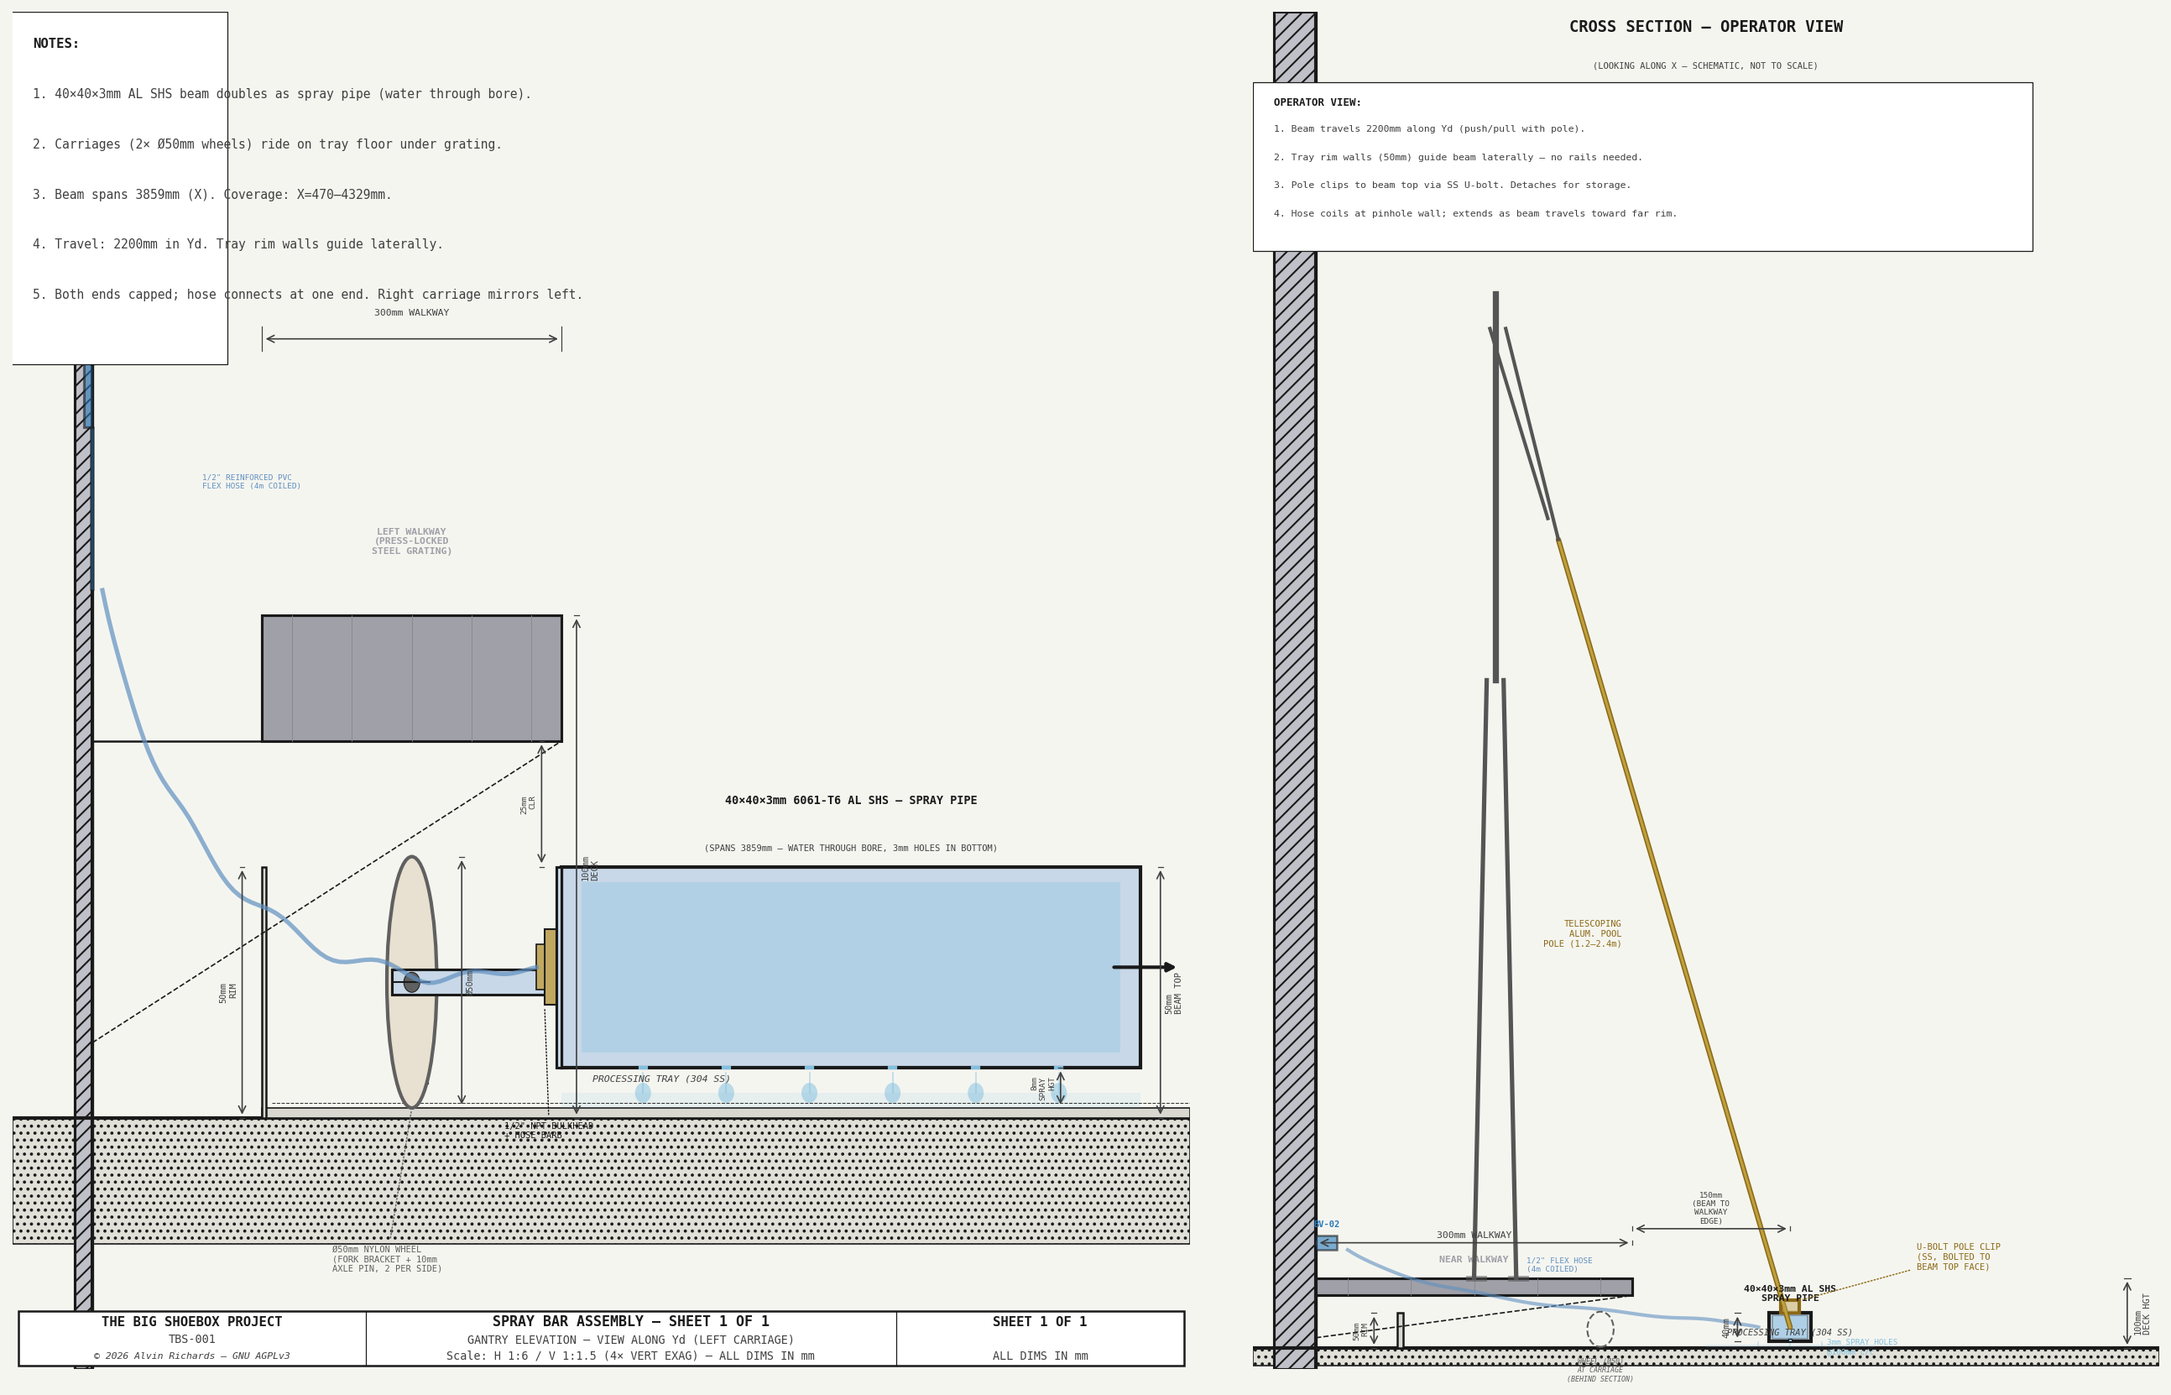
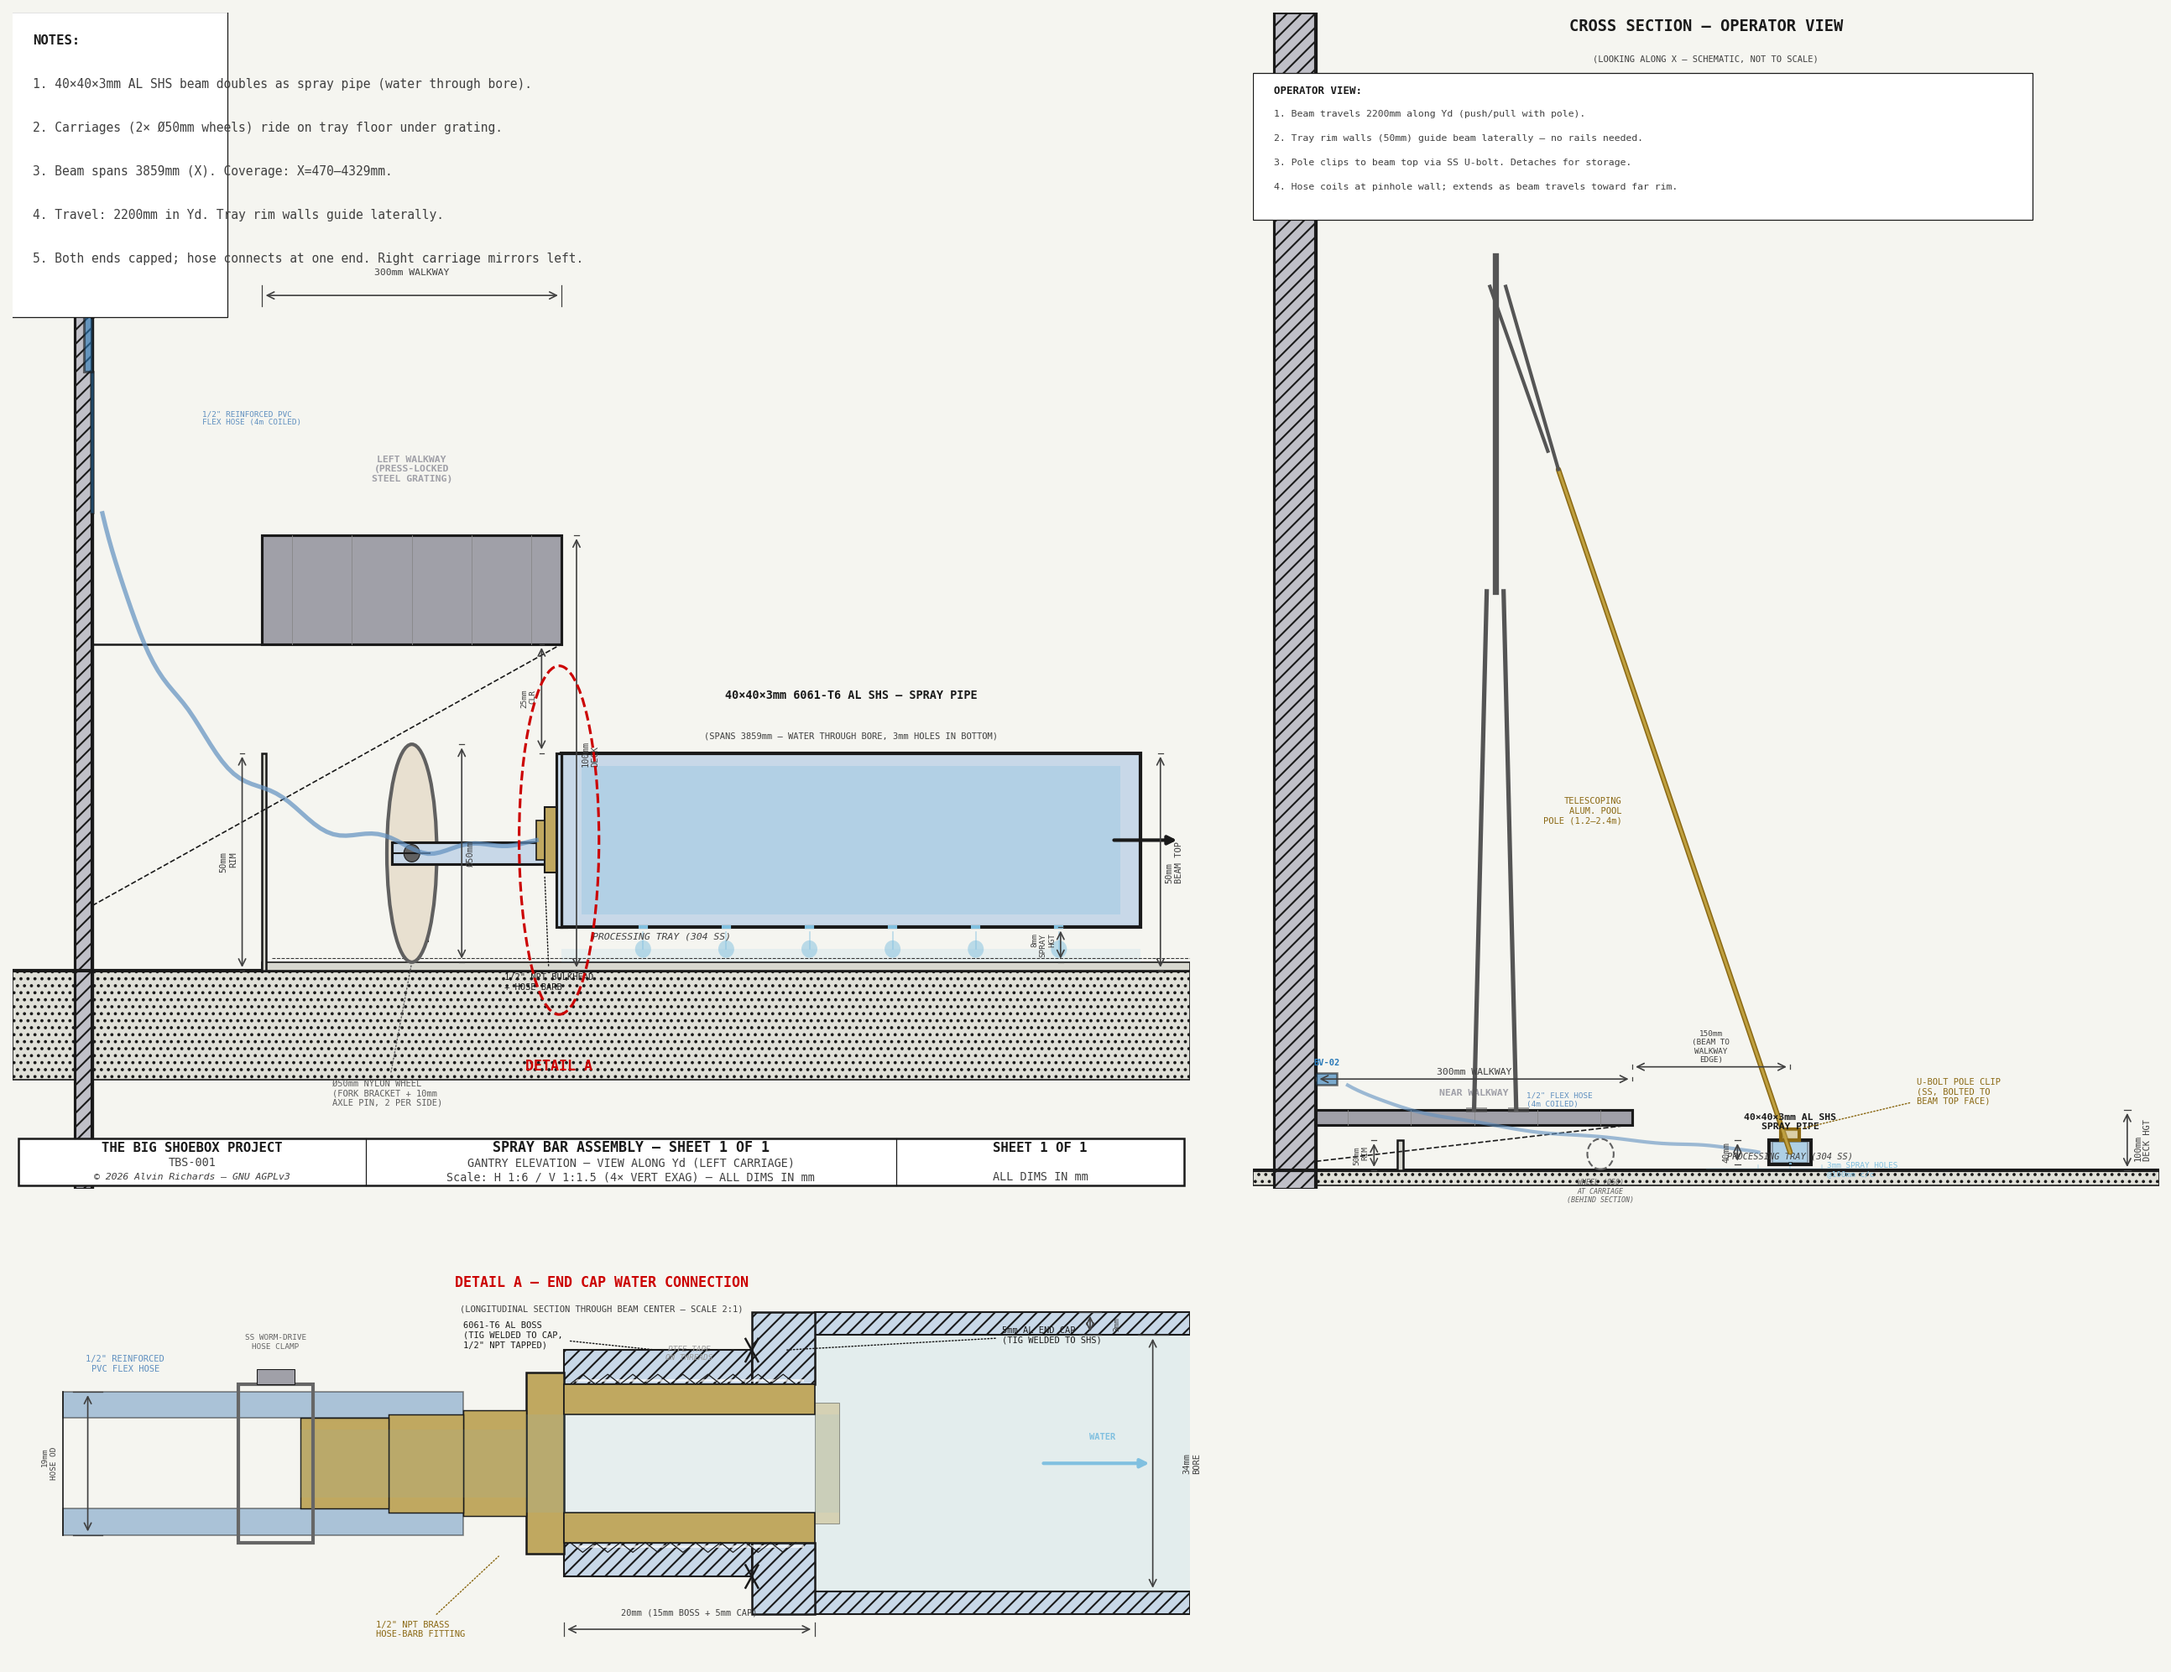
Spray bar diagram: add Detail A — end cap water connection
New bottom-left panel shows longitudinal section (2:1) through
beam center at the end cap.  Assembly: 1/2" NPT brass hose-barb
fitting threaded into a TIG-welded 6061-T6 boss on the 5mm end
cap.  Shows NPT thread engagement, PTFE tape, hex shoulder,
stepped barb, flex hose with SS worm-drive clamp, and water
flow path through the fitting bore into the SHS spray pipe.

Layout changed from 1×2 to 2×2 GridSpec (figure height 14→17").
Red dashed detail callout circle added to main elevation view.

diff --git a/generate_spray_bar_diagram.py b/generate_spray_bar_diagram.py
@@ -87,9 +87,10 @@ WALL_T = 3
 # SHEET 1
 # ═════════════════════════════════════════════════════════════════════════════
 
-fig = plt.figure(figsize=(22, 14))
+fig = plt.figure(figsize=(22, 17))
 fig.patch.set_facecolor(C_BG)
-gs = GridSpec(1, 2, figure=fig, width_ratios=[1.3, 1], wspace=0.06)
+gs = GridSpec(2, 2, figure=fig, width_ratios=[1.3, 1], height_ratios=[3, 1],
+              wspace=0.06, hspace=0.10)
 
 # ─────────────────────────────────────────────────────────────────────────────
 # LEFT PANEL — X-Z elevation looking along Yd, left carriage area
@@ -386,6 +387,179 @@ title_block(ax, "SHEET 1 OF 1",
             subtitle="GANTRY ELEVATION — VIEW ALONG Yd (LEFT CARRIAGE)",
             scale_note="H 1:6 / V 1:1.5 (4× VERT EXAG) — ALL DIMS IN mm",
             height=0.04)
+
+# ── Detail callout circle on main view ────────────────────────────────────
+cap_cx = beam_x_start - cap_t / 2
+cap_cz = BEAM_Z_BOT + BEAM_W / 2
+ax.add_patch(mpatches.Ellipse((sx(cap_cx), sz(cap_cz)),
+                               80 / H_SC, 80 / V_SC,
+                               fc="none", ec="#CC0000", lw=1.5, ls="--", zorder=20))
+ax.text(sx(cap_cx), sz(cap_cz - 50),
+        "DETAIL A", ha="center", va="top", fontsize=8, color="#CC0000",
+        fontweight="bold", **FONT, zorder=20)
+
+
+# ─────────────────────────────────────────────────────────────────────────────
+# BOTTOM-LEFT PANEL — Detail A: End cap water connection
+# Longitudinal section through beam center at end cap, scale 2:1.
+# X: along beam axis, - = outside (hose side), + = inside (bore/water)
+# Y: perpendicular to beam axis, 0 = beam centerline
+#
+# Assembly (outside → inside):
+#   flex hose → clamp → barb → hex → boss (NPT tapped) → end cap → SHS bore
+# Boss provides 15mm thread engagement for 1/2" NPT (cap alone is too thin).
+# ─────────────────────────────────────────────────────────────────────────────
+ax_d = fig.add_subplot(gs[1, 0])
+ax_d.set_facecolor(C_BG)
+ax_d.axis("off")
+
+d_xl, d_xr = -44, 50
+d_yb, d_yt = -26, 26
+ax_d.set_xlim(d_xl, d_xr)
+ax_d.set_ylim(d_yb, d_yt)
+
+ax_d.text((d_xl + d_xr) / 2, d_yt - 1,
+          "DETAIL A — END CAP WATER CONNECTION",
+          ha="center", va="top", fontsize=8, color="#CC0000",
+          fontweight="bold", **FONT, zorder=20)
+ax_d.text((d_xl + d_xr) / 2, d_yt - 5,
+          "(LONGITUDINAL SECTION THROUGH BEAM CENTER — SCALE 2:1)",
+          ha="center", va="top", fontsize=5, color=C_DIM,
+          **FONT, zorder=20)
+
+C_BRASS = "#C0A860"
+C_WASHER = "#5A3020"
+
+# ── Water in bore (right of cap, between SHS walls) ──────────────────────
+ax_d.add_patch(Rectangle((20, -17), d_xr - 20, 34,
+               fc=C_WATER, ec="none", alpha=0.15, zorder=1))
+
+# ── SHS top wall — cut section, hatched ──────────────────────────────────
+ax_d.add_patch(Rectangle((20, 17), d_xr - 20, 3,
+               fc=C_ALUM_FILL, ec=C_FRAME, lw=1.0, hatch="///", zorder=3))
+
+# ── SHS bottom wall — cut section, hatched ───────────────────────────────
+ax_d.add_patch(Rectangle((20, -20), d_xr - 20, 3,
+               fc=C_ALUM_FILL, ec=C_FRAME, lw=1.0, hatch="///", zorder=3))
+
+# ── End cap plate (X=15–20, full SHS height except fitting hole) ─────────
+ax_d.add_patch(Rectangle((15, 10.5), 5, 9.5,
+               fc=C_ALUM_FILL, ec=C_FRAME, lw=1.2, hatch="///", zorder=4))
+ax_d.add_patch(Rectangle((15, -20), 5, 9.5,
+               fc=C_ALUM_FILL, ec=C_FRAME, lw=1.2, hatch="///", zorder=4))
+
+# ── Boss welded to outside of cap (15mm deep, 30mm OD → Y=±15) ──────────
+ax_d.add_patch(Rectangle((0, 10.5), 15, 4.5,
+               fc=C_ALUM_FILL, ec=C_FRAME, lw=1.0, hatch="///", zorder=4))
+ax_d.add_patch(Rectangle((0, -15), 15, 4.5,
+               fc=C_ALUM_FILL, ec=C_FRAME, lw=1.0, hatch="///", zorder=4))
+
+# Weld symbols at boss-to-cap joint
+for wy in [15, -15]:
+    ax_d.plot([14.5, 15.5], [wy - 1.5, wy + 1.5],
+              color=C_FRAME, lw=1.2, zorder=6)
+    ax_d.plot([14.5, 15.5], [wy + 1.5, wy - 1.5],
+              color=C_FRAME, lw=1.2, zorder=6)
+
+# ── Fitting hex shoulder (X=-3 to 0, seats against boss face) ────────────
+ax_d.add_patch(Rectangle((-3, -12), 3, 24,
+               fc=C_BRASS, ec=C_FRAME, lw=1.2, zorder=5))
+
+# ── Fitting threaded body through boss+cap (X=0 to 20) ──────────────────
+ax_d.add_patch(Rectangle((0, 6.5), 20, 4,
+               fc=C_BRASS, ec=C_FRAME, lw=0.8, zorder=5))
+ax_d.add_patch(Rectangle((0, -10.5), 20, 4,
+               fc=C_BRASS, ec=C_FRAME, lw=0.8, zorder=5))
+
+# ── NPT thread crests (zigzag on fitting OD) ────────────────────────────
+for i in range(10):
+    tx = 0.5 + i * 2.0
+    if tx + 2.0 > 20:
+        break
+    ax_d.plot([tx, tx + 1.0, tx + 2.0], [10.5, 11.8, 10.5],
+              color=C_FRAME, lw=0.6, zorder=6)
+    ax_d.plot([tx, tx + 1.0, tx + 2.0], [-10.5, -11.8, -10.5],
+              color=C_FRAME, lw=0.6, zorder=6)
+
+# ── PTFE tape on threads (thin white band) ───────────────────────────────
+ax_d.plot([1, 19], [11.0, 11.0], color="white", lw=1.5, alpha=0.7, zorder=5.8)
+ax_d.plot([1, 19], [-11.0, -11.0], color="white", lw=1.5, alpha=0.7, zorder=5.8)
+
+# ── Fitting through-bore (water path, 13mm ID → Y=±6.5) ─────────────────
+ax_d.add_patch(Rectangle((-3, -6.5), 25, 13,
+               fc=C_WATER, ec="none", alpha=0.12, zorder=5.5))
+
+# ── Fitting tip protrusion into bore (X=20–22) ──────────────────────────
+ax_d.add_patch(Rectangle((20, -8), 2, 16,
+               fc=C_BRASS, ec=C_FRAME, lw=0.5, alpha=0.4, zorder=5))
+
+# ── Hose barb: stepped profile extending from hex (brass) ───────────────
+for bx, by, bw, bh in [(-8, -7, 5, 14), (-14, -6.5, 6, 13), (-21, -6, 7, 12)]:
+    ax_d.add_patch(Rectangle((bx, by), bw, bh,
+                   fc=C_BRASS, ec=C_FRAME, lw=0.7, zorder=5))
+
+# Barb through-bore
+ax_d.add_patch(Rectangle((-21, -4.5), 18, 9,
+               fc=C_WATER, ec="none", alpha=0.08, zorder=5.5))
+
+# ── Flex hose over barb (1/2" ID ≈ 13mm, 3mm wall → 19mm OD) ────────────
+ax_d.add_patch(Rectangle((-40, 6), 32, 3.5,
+               fc=C_HOSE, ec=C_FRAME, lw=0.8, alpha=0.5, zorder=4))
+ax_d.add_patch(Rectangle((-40, -9.5), 32, 3.5,
+               fc=C_HOSE, ec=C_FRAME, lw=0.8, alpha=0.5, zorder=4))
+ax_d.plot([-40, -40], [-9.5, 9.5], color=C_FRAME, lw=0.8, zorder=4)
+
+# ── Worm-drive hose clamp ────────────────────────────────────────────────
+clamp_x, clamp_w = -26, 6
+ax_d.add_patch(Rectangle((clamp_x, -10.5), clamp_w, 21,
+               fc="none", ec="#666666", lw=2.0, zorder=6))
+ax_d.add_patch(Rectangle((clamp_x + 1.5, 10.5), clamp_w - 3, 2,
+               fc="#A0A0A8", ec=C_FRAME, lw=0.5, zorder=6))
+
+# ── Flow direction arrow ─────────────────────────────────────────────────
+ax_d.annotate("", xy=(d_xr - 3, 0), xytext=(d_xr - 12, 0),
+              arrowprops=dict(arrowstyle="-|>", color=C_WATER, lw=2.0),
+              zorder=15)
+ax_d.text(d_xr - 7, 3, "WATER", ha="center", va="bottom",
+          fontsize=5, color=C_WATER, fontweight="bold", **FONT, zorder=15)
+
+# ── Labels ────────────────────────────────────────────────────────────────
+leader(ax_d, 7.5, 15, -8, d_yt - 9,
+       "6061-T6 AL BOSS\n(TIG WELDED TO CAP,\n1/2\" NPT TAPPED)",
+       fs=5, color=C_FRAME, font=FONT, zorder=20)
+
+leader(ax_d, 17.5, 15, 35, d_yt - 9,
+       "5mm AL END CAP\n(TIG WELDED TO SHS)",
+       fs=5, color=C_FRAME, font=FONT, zorder=20)
+
+leader(ax_d, -5, -12, -15, d_yb + 4,
+       "1/2\" NPT BRASS\nHOSE-BARB FITTING",
+       fs=5, color="#8B6914", font=FONT, zorder=20)
+
+ax_d.text(-35, 12, "1/2\" REINFORCED\nPVC FLEX HOSE", ha="center", va="bottom",
+          fontsize=5, color=C_HOSE, **FONT, zorder=20)
+
+ax_d.text(clamp_x + clamp_w / 2, 15, "SS WORM-DRIVE\nHOSE CLAMP",
+          ha="center", va="bottom", fontsize=4.5, color="#666666",
+          **FONT, zorder=20)
+
+ax_d.text(10, 13.5, "PTFE TAPE\nON THREADS",
+          ha="center", va="bottom", fontsize=4.5, color="#999999",
+          style="italic", **FONT, zorder=20)
+
+# ── Dimensions ────────────────────────────────────────────────────────────
+draw_dim_h(ax_d, 0, 20, d_yb + 4,
+           "20mm (15mm BOSS + 5mm CAP)",
+           offset=3, fs=5, font=FONT)
+
+draw_dim_v(ax_d, d_xr - 8, 17, 20,
+           "3mm", offset=3, fs=4.5, font=FONT, right=True)
+
+draw_dim_v(ax_d, d_xr - 3, -17, 17,
+           "34mm\nBORE", offset=4, fs=5, font=FONT, right=True)
+
+draw_dim_v(ax_d, d_xl + 6, -9.5, 9.5,
+           "19mm\nHOSE OD", offset=4, fs=4.5, font=FONT)
 
 
 # ─────────────────────────────────────────────────────────────────────────────
